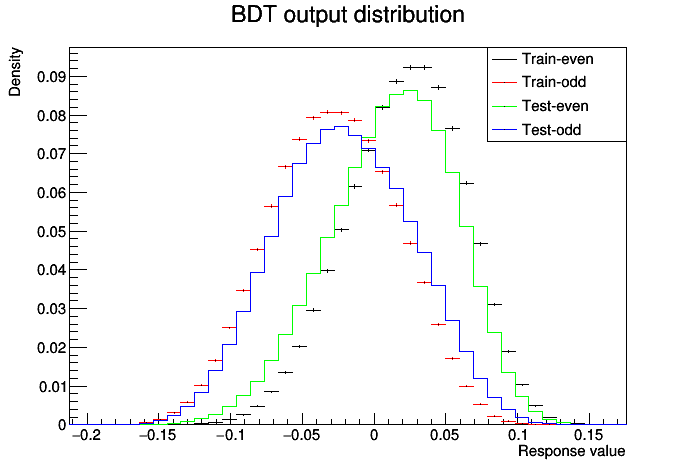
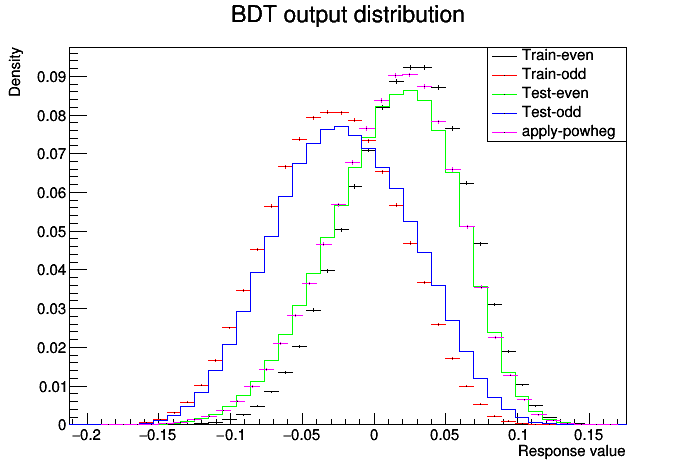
powheg

Changed region(s): [[0.7241, 0.089, 0.9052, 0.2966]]

diff --git a/application_BDT.c b/application_BDT.c
@@ -24,31 +24,26 @@ void application_BDT(){
 	//Float_t diPhoPtoM,diPhoCosPhi,diPhoY;
 	//Float_t lepPt_1,lepEta_1,lepPhi_1,lepE_1,nLep,nJetsBl;
 
-	TString variables[39]={"diPhoPtoM", "diPhoCosPhi", "diPhoY", "lepPt_1", "lepEta_1", 
-	"lepPhi_1","lepE_1", "nLep","nJetsBl","jetPt_1", "jetPt_2", 
-	"jetPt_3","jetPt_4","jetPt_5","jetPt_6", "jetEta_1", "jetEta_2", 
-	"jetEta_3", "jetEta_4", "jetEta_5", "jetEta_6", "jetPhi_1", "jetPhi_2", 
-	"jetPhi_3","jetPhi_4", "jetPhi_5","jetPhi_6", "btag_1", "btag_2", "btag_3", 
-	"btag_4", "btag_5", "btag_6", "jetE_1", "jetE_2", "jetE_3","jetE_4","jetE_5","jetE_6" };
-	Float_t values[39];
-	for(int kk=0;kk<39;kk++)
+	TString variables[45]={"dipho_sumpt", "dipho_cosphi", "dipho_rapidity", "nb_loose","jet1_pt", "jet2_pt", "jet3_pt","jet4_pt","jet5_pt","jet6_pt","jet7_pt","jet8_pt", "jet1_eta", "jet2_eta", "jet3_eta", "jet4_eta", "jet5_eta", "jet6_eta", "jet7_eta", "jet8_eta", "jet1_phi", "jet2_phi", "jet3_phi", "jet4_phi", "jet5_phi", "jet6_phi", "jet7_phi", "jet8_phi", "jet1_bdiscriminant", "jet2_bdiscriminant", "jet3_bdiscriminant", "jet4_bdiscriminant", "jet5_bdiscriminant", "jet6_bdiscriminant", "jet7_bdiscriminant", "jet8_bdiscriminant", "jet1_energy", "jet2_energy", "jet3_energy", "jet4_energy", "jet5_energy", "jet6_energy", "jet7_energy", "jet8_energy","mass" };
+	Float_t values[45];
+	for(int kk=0;kk<45;kk++)
 		reader->AddVariable(variables[kk],&values[kk]);
 
 
 	TString BDTFileName="TMVAClassification_BDT.weights.xml";
 	TString dir="/afs/cern.ch/user/r/repan/CMSSW_9_4_0/src/TMVAOptimizer/bin/output/";
 	TString BTDFile=dir+BDTFileName;
-	reader->BookMVA("BDT method", BTDFile );
+         reader->BookMVA("BDT method", BTDFile );
 	int nbin=100;
     TH1F *histBDT= new TH1F( "MVA_BDT_powheg","MVA_BDT_powheg",nbin, -0.5,0.5 );
     //define root file and tree
-	TChain *tsignal= new  TChain("tth_13TeV_all");
+	TChain *tsignal= new  TChain("tthHadronicTagDumper/trees/tth_13TeV_all");
 	tsignal->Add("/afs/cern.ch/user/r/repan/root_file/ttHToGG_M125_13TeV_powheg.root");
 	//tsignal->Add("ttHiggs0PToGG2.root");
 	//tsignal->Add("ttHiggs0PToGG3.root");
 
 	
-	for(int jj=0;jj<39;jj++)
+	for(int jj=0;jj<45;jj++)
 		tsignal->SetBranchAddress(variables[jj],&values[jj]);
 
 	std::cout << "--- Processing: " << tsignal->GetEntries() << " events" << std::endl;
@@ -65,7 +60,7 @@ void application_BDT(){
 	// Get elapsed time
    sw.Stop();
    std::cout << "--- End of event loop: "; sw.Print();
-    TString outputFile("tth_BDT_powheg_apply.root");
+    TString outputFile("tth_BDT_powheg_app.root");
     TFile *target  = new TFile( outputFile,"update" );
     histBDT->Write();
 

diff --git a/histogram_plot.c b/histogram_plot.c
@@ -1,7 +1,7 @@
 void histogram_plot(){
 	gStyle->SetOptStat(0);
 	TFile* file1=TFile::Open("/afs/cern.ch/user/r/repan/root_file/TMVA_had.root");
-	TFile* file2=TFile::Open("/afs/cern.ch/user/r/repan/CMSSW_9_4_0/src/TMVAOptimizer/tth_BDT_powheg_apply.root");
+	TFile* file2=TFile::Open("/afs/cern.ch/user/r/repan/CMSSW_9_4_0/src/TMVAOptimizer/tth_BDT_powheg_app.root");
 
 	TH1F* train_S=(TH1F*) file1->Get("Method_BDT/BDT/MVA_BDT_Train_S");
 	TH1F* train_B=(TH1F*) file1->Get("Method_BDT/BDT/MVA_BDT_Train_B");
@@ -22,7 +22,7 @@ void histogram_plot(){
 	train_B->DrawNormalized("same");
 	test_S->DrawNormalized("sameHist");
 	test_B->DrawNormalized("sameHist");
-	//powheg->Draw("same");
+	powheg->DrawNormalized("same");
 
 	TLegend leg(.7,.7,.9,.9);
 	leg.SetFillColor(0);
@@ -30,7 +30,7 @@ void histogram_plot(){
 	leg.AddEntry(train_B,"Train-odd");
 	leg.AddEntry(test_S,"Test-even");
 	leg.AddEntry(test_B,"Test-odd");
-	//leg.AddEntry(powheg,"apply-powheg");
+	leg.AddEntry(powheg,"apply-powheg");
 	leg.DrawClone("Same");
 
 	gPad->Print("hadronic_norl.png");
